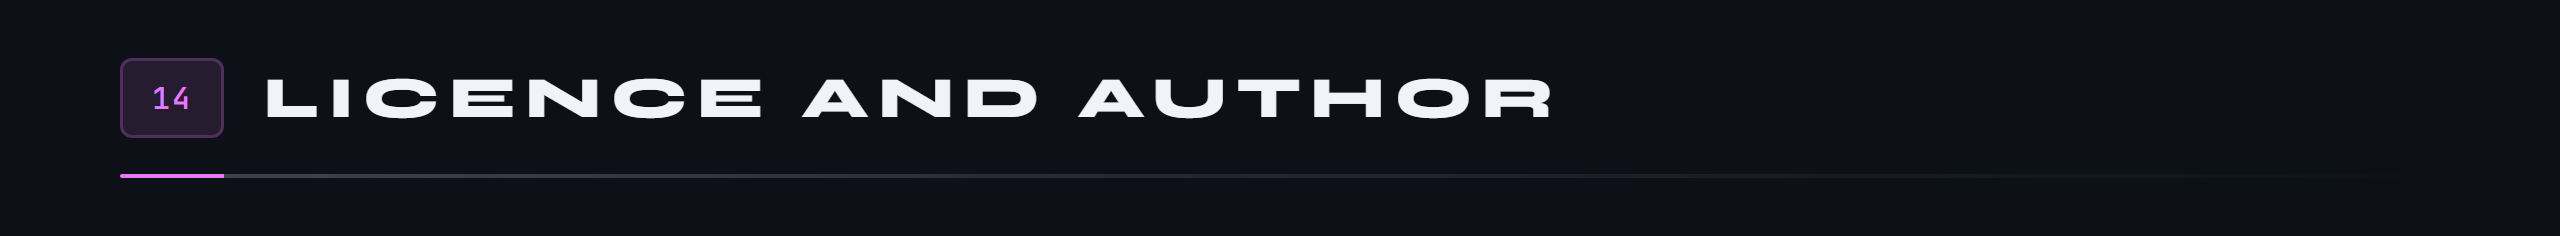
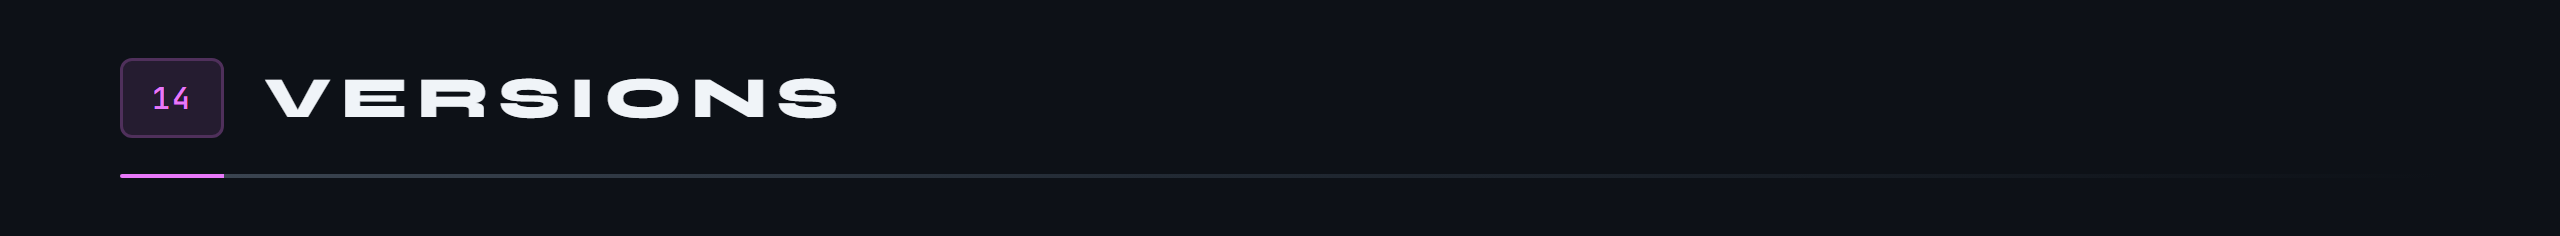
Une quinzième section, Les versions, et le sommaire en cinq rangées
La 1.0.0 et la 1.1.0, avec un lien vers chaque Release. La licence
passe en 15, et le sommaire tombe juste : cinq rangées de trois.

Changed region(s): [[0.0938, 0.3263, 0.625, 0.5042]]

diff --git a/README.md b/README.md
@@ -36,7 +36,8 @@ Toute la conception découle de cette contrainte, jusqu'à la carte, qui dessine
 <a href="#sans-internet"><img src="docs/sommaire/12.png" alt="12 Sans Internet" width="31%"></a>
 <br>
 <a href="#avertissement"><img src="docs/sommaire/13.png" alt="13 Avertissement" width="31%"></a>
-<a href="#licence"><img src="docs/sommaire/14.png" alt="14 Licence" width="31%"></a>
+<a href="#versions"><img src="docs/sommaire/14.png" alt="14 Les versions" width="31%"></a>
+<a href="#licence"><img src="docs/sommaire/15.png" alt="15 Licence" width="31%"></a>
 </p>
 
 <a id="fonctionnalites"></a>
@@ -277,8 +278,16 @@ Ce dépôt est un projet personnel, pas un produit de sécurité. Le chiffrement
 
 Le jeu d'essai n'existe que dans la démo, et dans une version de travail compilée avec `--dart-define=ESSAIS=true`. Ses visages, des portraits générés qui ne représentent personne, ne font pas partie du dépôt : pour construire la démo, ils se posent dans `assets/demo/` ; pour une version de travail, sur le téléphone, avec `adb push assets/demo/. /sdcard/Android/data/com.bodycount.bodycount/files/demo/`. Sans eux les dix-huit fiches se créent quand même, simplement sans photo : le générateur se passe de chaque image absente.
 
+<a id="versions"></a>
+<img src="docs/sections/s14.png" alt="14 Les versions" width="100%">
+
+Chaque version s'installe par-dessus la précédente sans rien perdre, signée de la même clé. Le détail, avec les empreintes SHA-256, est sur la page de chaque Release.
+
+- **[1.1.0](https://github.com/Cybertrist/BodyCount/releases/tag/v1.1.0)**, 26 septembre 2026 : la démo, une seconde application remplie des dix-huit fiches du jeu d'essai, qui s'installe à côté de la vraie sans la toucher.
+- **[1.0.0](https://github.com/Cybertrist/BodyCount/releases/tag/v1.0.0)**, 23 septembre 2026 : la première version publiée, sans jeu d'essai. Le répertoire, les statistiques, la carte de France embarquée, le calendrier, la galerie chiffrée, la sauvegarde et la restauration.
+
 <a id="licence"></a>
-<img src="docs/sections/s14.png" alt="14 Licence et auteur" width="100%">
+<img src="docs/sections/s15.png" alt="15 Licence et auteur" width="100%">
 
 BodyCount est conçu et développé par **Tristan Joncour** ([@Cybertrist](https://github.com/Cybertrist)), élève ingénieur en cyberdéfense à l'ENSIBS, pour son propre usage d'abord : c'est l'application qu'il voulait avoir sur son téléphone, et qui n'existait pas.
 

diff --git a/README.en.md b/README.en.md
@@ -36,7 +36,8 @@ Every design decision follows from that constraint, down to the map, which draws
 <a href="#sans-internet"><img src="docs/en/sommaire/12.png" alt="12 No Internet" width="31%"></a>
 <br>
 <a href="#avertissement"><img src="docs/en/sommaire/13.png" alt="13 A word of warning" width="31%"></a>
-<a href="#licence"><img src="docs/en/sommaire/14.png" alt="14 Licence" width="31%"></a>
+<a href="#versions"><img src="docs/en/sommaire/14.png" alt="14 Versions" width="31%"></a>
+<a href="#licence"><img src="docs/en/sommaire/15.png" alt="15 Licence" width="31%"></a>
 </p>
 
 <a id="fonctionnalites"></a>
@@ -277,8 +278,16 @@ This repository is a personal project, not a security product. The encryption re
 
 The sample set only exists in the demo, and in a working build compiled with `--dart-define=ESSAIS=true`. Its faces, generated portraits of no one real, are not part of the repository: to build the demo, they go into `assets/demo/`; for a working build, onto the phone, with `adb push assets/demo/. /sdcard/Android/data/com.bodycount.bodycount/files/demo/`. Without them the eighteen people are still created, simply without a photo: the generator copes with every missing image.
 
+<a id="versions"></a>
+<img src="docs/en/sections/s14.png" alt="14 Versions" width="100%">
+
+Each version installs over the previous one without losing anything, signed with the same key. The details, with the SHA-256 fingerprints, are on each Release page.
+
+- **[1.1.0](https://github.com/Cybertrist/BodyCount/releases/tag/v1.1.0)**, 26 September 2026: the demo, a second app filled with the eighteen sample people, which installs next to the real one without touching it.
+- **[1.0.0](https://github.com/Cybertrist/BodyCount/releases/tag/v1.0.0)**, 23 September 2026: the first published version, without the sample set. The people list, the statistics, the embedded map of France, the calendar, the encrypted gallery, backup and restore.
+
 <a id="licence"></a>
-<img src="docs/en/sections/s14.png" alt="14 Licence and author" width="100%">
+<img src="docs/en/sections/s15.png" alt="15 Licence and author" width="100%">
 
 BodyCount is designed and built by **Tristan Joncour** ([@Cybertrist](https://github.com/Cybertrist)), a cyber defence engineering student at ENSIBS, for his own use first: it is the app he wanted on his phone, and it did not exist.
 

diff --git a/docs/tools/README.md b/docs/tools/README.md
@@ -53,7 +53,7 @@ ce qui rend impossible d'en corriger une en oubliant l'autre.
 - `grille.sh` : le gabarit des grilles à deux ou trois colonnes.
 - `arbre.sh` : le gabarit des arborescences, dont les traits de liaison
   sont calculés et non écrits à la main.
-- `sommaire.sh` : le bandeau « 00 Sommaire » et les quatorze tuiles
+- `sommaire.sh` : le bandeau « 00 Sommaire » et les quinze tuiles
   cliquables qui mènent chacune à sa section, dans `docs/sommaire/`.
 - `pastilles.sh` : les deux pastilles du sélecteur de langue.
 - `sequence.sh` : le gabarit des enchaînements, des étapes reliées par
